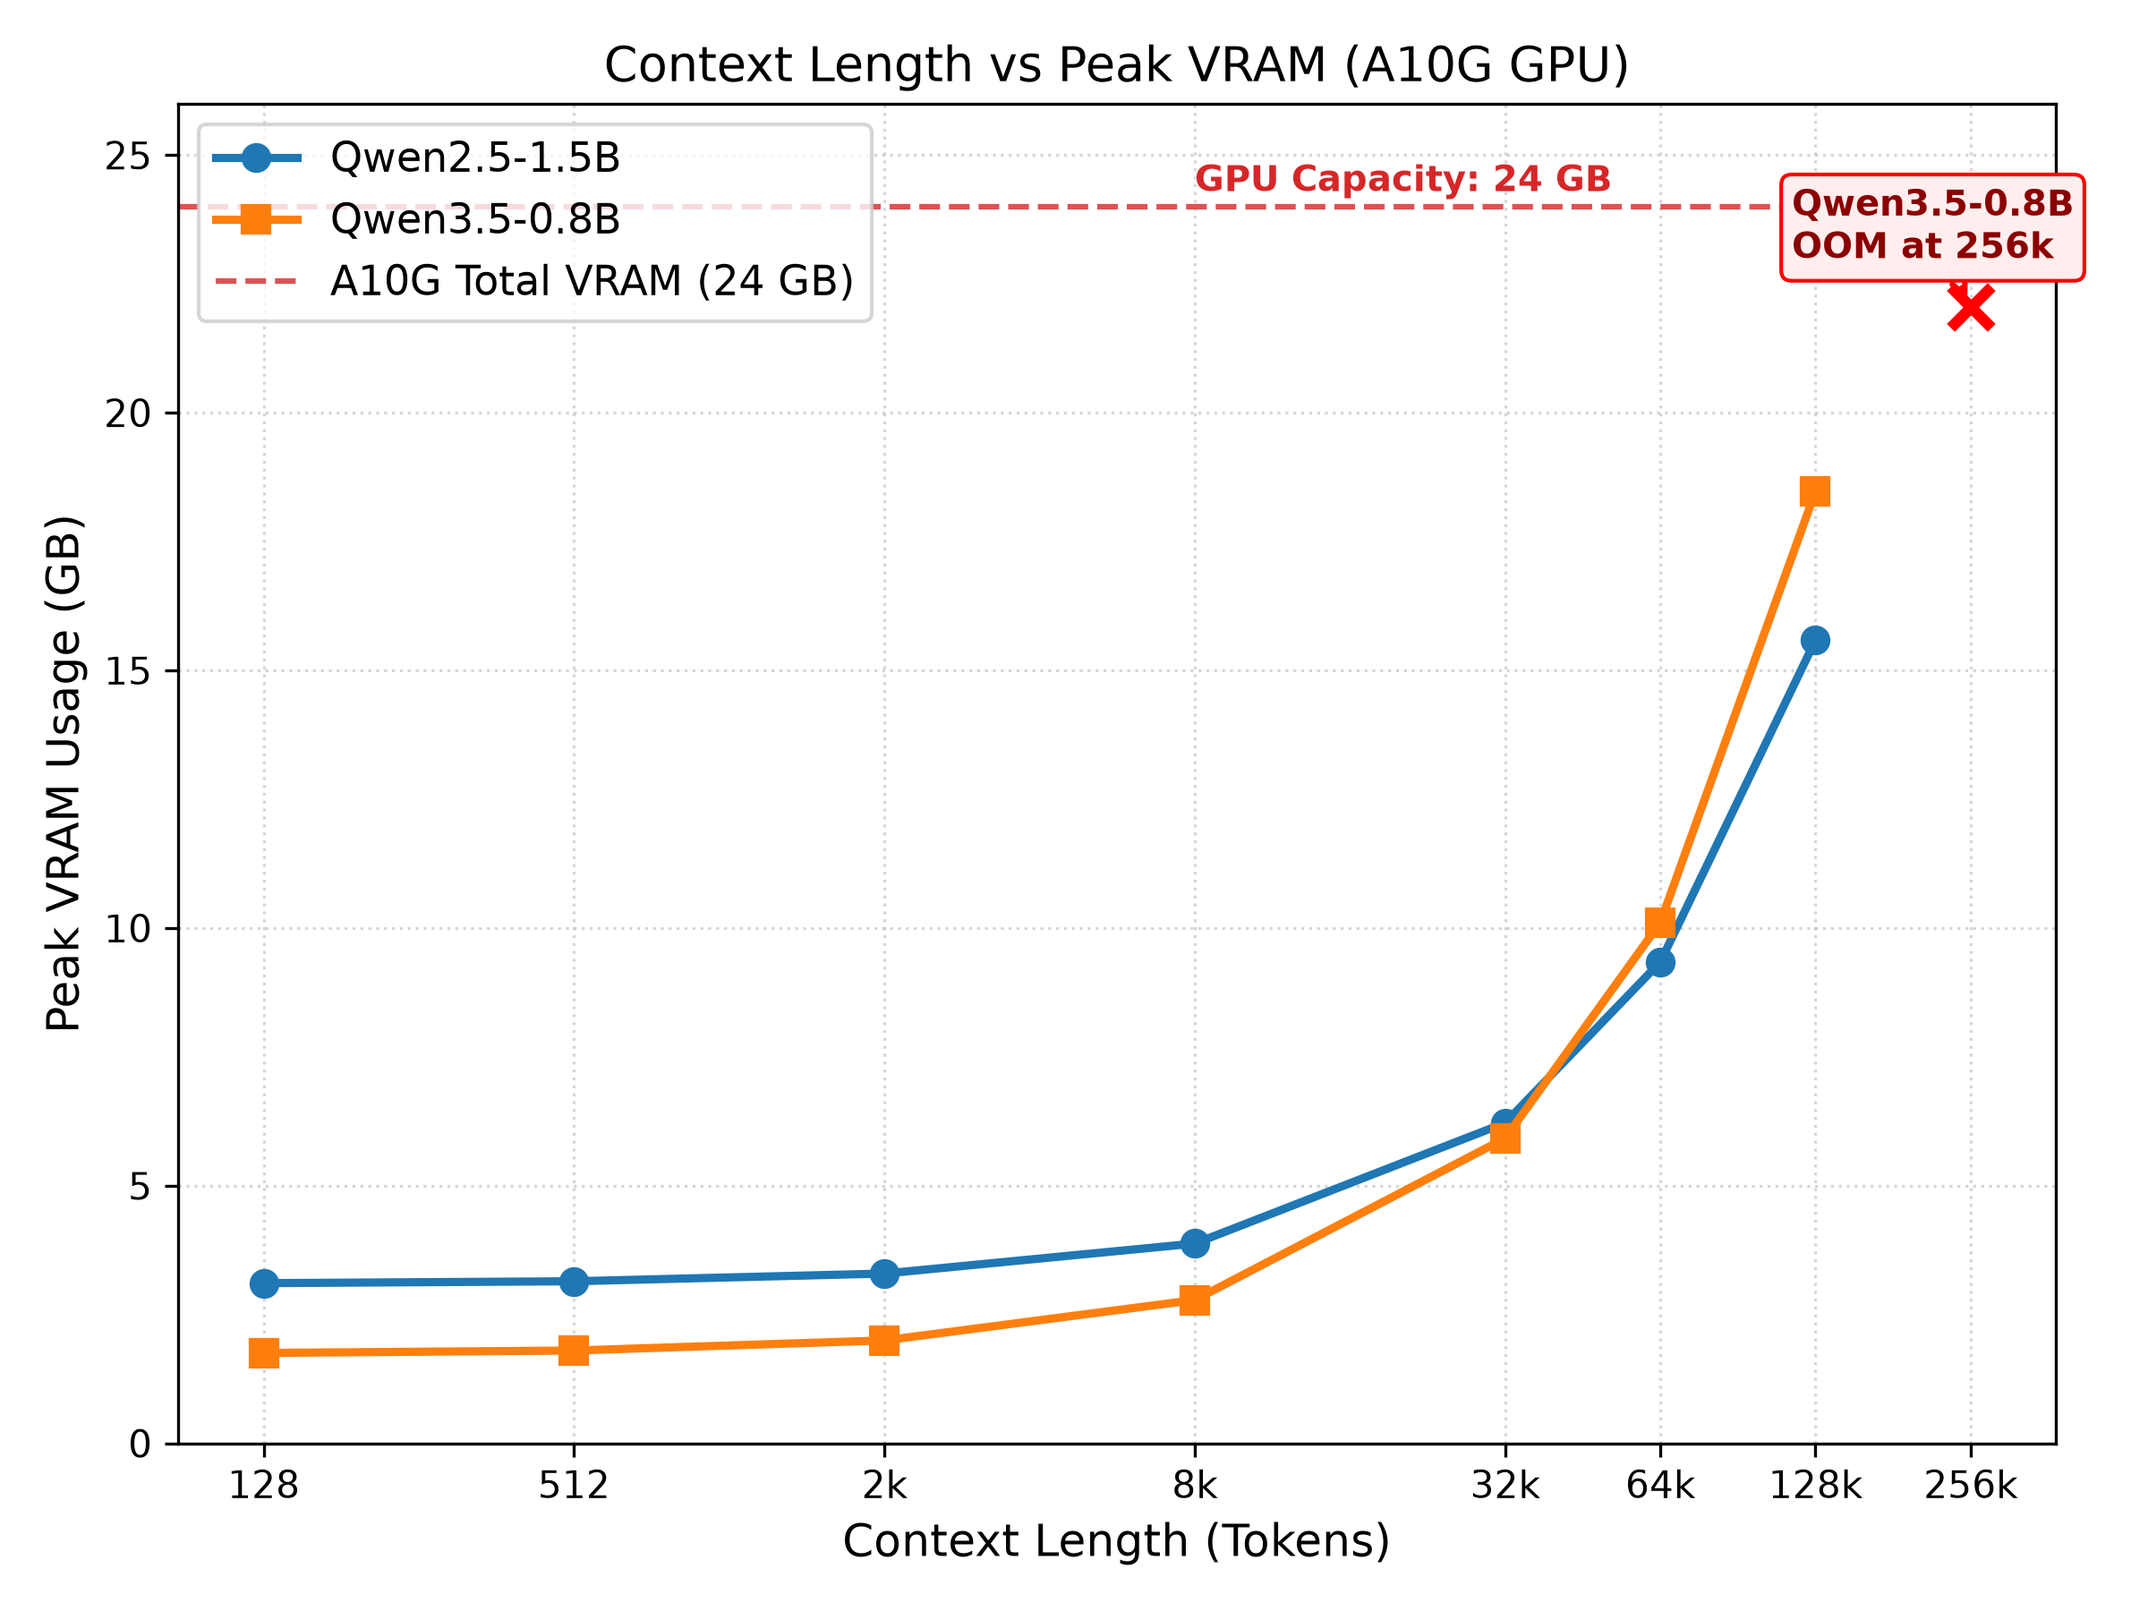
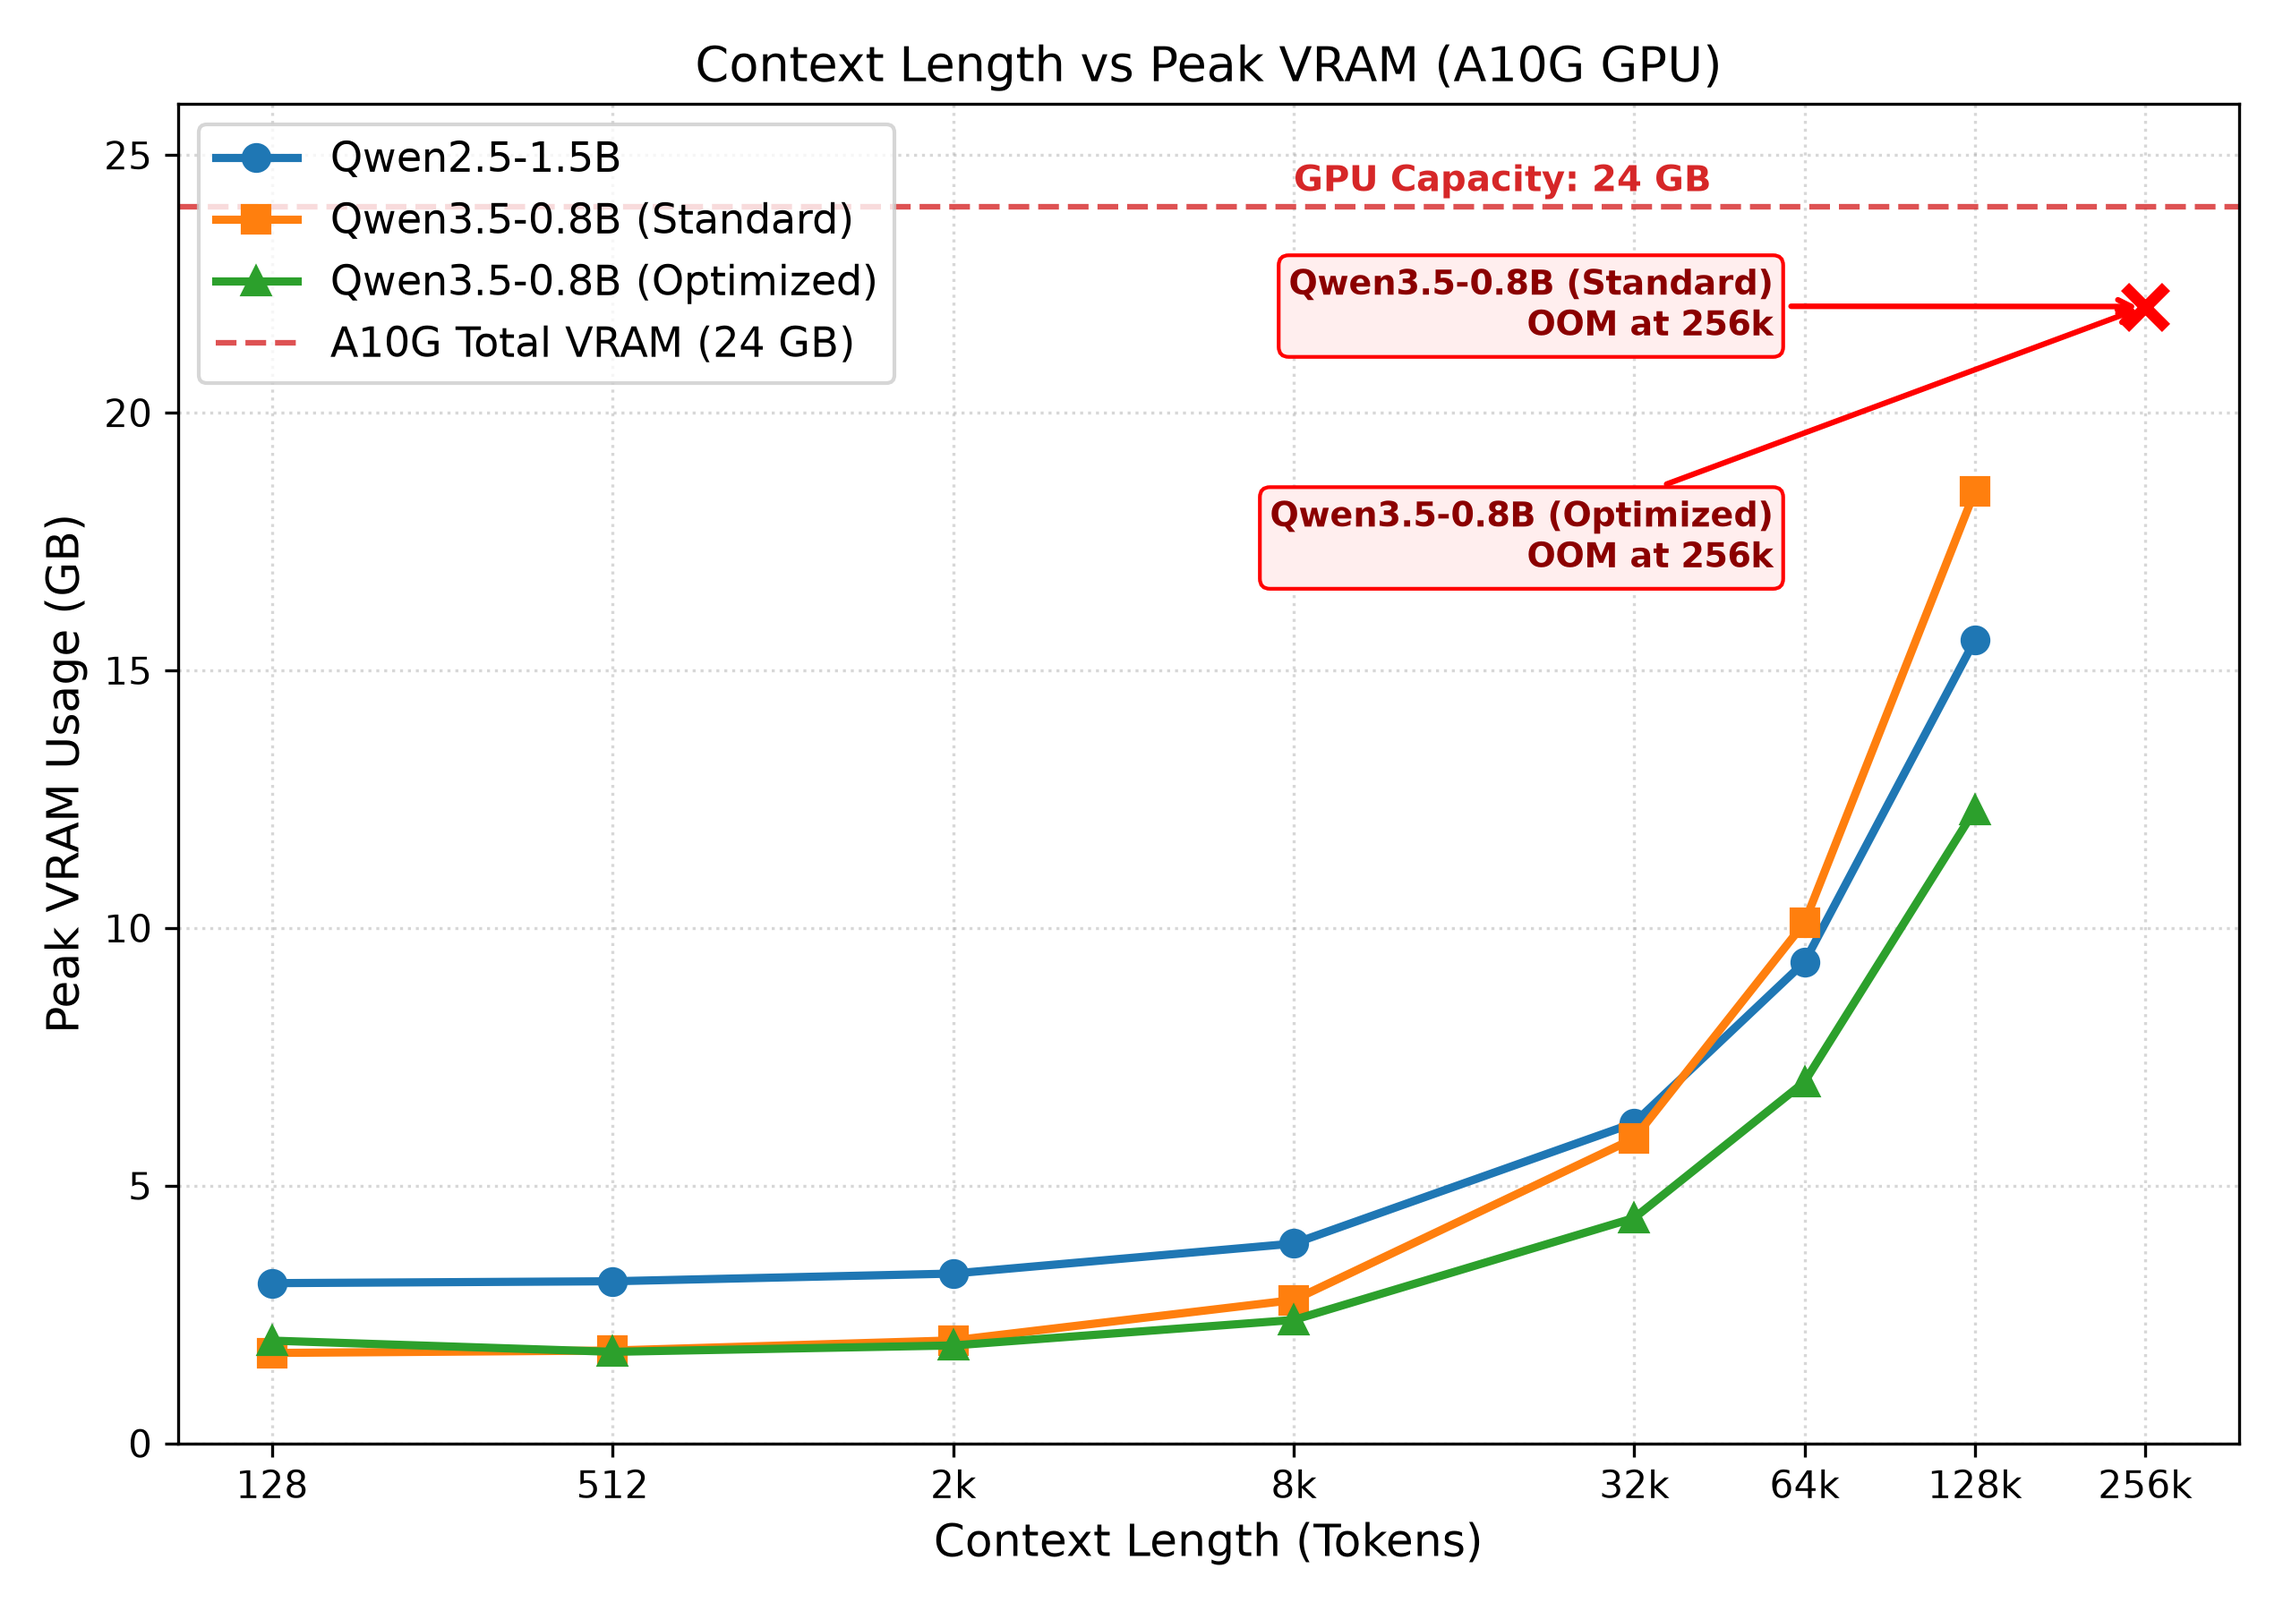
docs(qwen3.5-optimized): Run qwen 3.5 with flash-linear-attention and more

diff --git a/increasing_context/src/increasing_context/compare_optimized.py b/increasing_context/src/increasing_context/compare_optimized.py
@@ -1,0 +1,135 @@
+import modal
+import time
+import json
+
+app = modal.App("kv-cache-optimized-kernels")
+
+image = (
+    modal.Image.from_registry("nvidia/cuda:13.0.0-devel-ubuntu22.04", add_python="3.11")
+    .apt_install("git", "build-essential", "clang-14", "lld")
+    .env({"CC": "clang-14", "CXX": "clang++-14"})
+    .uv_pip_install(
+        "torch",
+        "torchvision",
+        "accelerate",
+        "transformers>=4.57.0",
+        "pillow",
+        "ninja",
+        "packaging",
+    )
+    # Compiled CUDA extensions - now have nvcc available via the devel base image,
+    # unlike debian_slim() which only ships the CUDA runtime, not the compiler toolchain.
+    .run_commands(
+        "pip install causal-conv1d --no-build-isolation",
+    )
+    .run_commands(
+        "pip install flash-linear-attention",
+    )
+)
+
+CONTEXT_LENGTHS_QWEN35 = [128, 512, 2048, 8192, 32768, 65536, 131072, 262144]
+MAX_CTX = max(CONTEXT_LENGTHS_QWEN35)
+
+
+def build_prompt_of_length(processor, target_len):
+    filler = "The quick brown fox jumps over the lazy dog. " * (MAX_CTX // 8 + 1000)
+    ids = processor.tokenizer(filler, return_tensors="pt")["input_ids"][0]
+    if ids.shape[0] < target_len:
+        raise ValueError(
+            f"Filler too short for {target_len} tokens, got {ids.shape[0]}"
+        )
+    ids = ids[:target_len]
+    return ids.unsqueeze(0)
+
+
+@app.function(
+    gpu="A10G",
+    image=image,
+    timeout=3600,
+    secrets=[modal.Secret.from_name("huggingface-secret")],
+)
+def benchmark_qwen35_optimized():
+    import torch
+    from transformers import AutoProcessor, AutoModelForMultimodalLM
+
+    # sanity check: confirm the optimized kernels actually imported successfully
+    try:
+        import causal_conv1d
+
+        causal_conv1d_ok = True
+    except ImportError as e:
+        causal_conv1d_ok = False
+        print(f"causal_conv1d import failed: {e}")
+
+    try:
+        import fla  # flash-linear-attention
+
+        fla_ok = True
+    except ImportError as e:
+        fla_ok = False
+        print(f"flash-linear-attention import failed: {e}")
+
+    print(f"causal_conv1d available: {causal_conv1d_ok}")
+    print(f"flash-linear-attention available: {fla_ok}")
+
+    model_id = "Qwen/Qwen3.5-0.8B"
+    processor = AutoProcessor.from_pretrained(model_id)
+    model = AutoModelForMultimodalLM.from_pretrained(
+        model_id, dtype=torch.float16, device_map="cuda"
+    )
+    model.eval()
+
+    results = []
+    for ctx_len in CONTEXT_LENGTHS_QWEN35:
+        try:
+            input_ids = build_prompt_of_length(processor, ctx_len).to("cuda")
+            attention_mask = torch.ones_like(input_ids)
+
+            torch.cuda.empty_cache()
+            torch.cuda.reset_peak_memory_stats()
+
+            start = time.time()
+            with torch.no_grad():
+                model.generate(
+                    input_ids=input_ids,
+                    attention_mask=attention_mask,
+                    max_new_tokens=20,
+                )
+            torch.cuda.synchronize()
+            latency = time.time() - start
+
+            peak_mem_gb = torch.cuda.max_memory_allocated() / 1e9
+
+            entry = {
+                "model": "Qwen3.5-0.8B-optimized",
+                "context_length": ctx_len,
+                "peak_memory_gb": round(peak_mem_gb, 4),
+                "latency_s": round(latency, 4),
+                "status": "ok",
+                "causal_conv1d_available": causal_conv1d_ok,
+                "flash_linear_attention_available": fla_ok,
+            }
+        except Exception as e:
+            entry = {
+                "model": "Qwen3.5-0.8B-optimized",
+                "context_length": ctx_len,
+                "status": "error",
+                "error": str(e)[:300],
+            }
+        print(entry)
+        results.append(entry)
+
+    return results
+
+
+@app.local_entrypoint()
+def main():
+    print("Benchmarking Qwen3.5-0.8B with optimized kernels...")
+    results = benchmark_qwen35_optimized.remote()
+
+    with open("results_optimized.json", "w") as f:
+        json.dump(results, f, indent=2)
+
+    print("\nAll results:")
+    for r in results:
+        print(r)

diff --git a/increasing_context/src/increasing_context/plot_results.py b/increasing_context/src/increasing_context/plot_results.py
@@ -1,4 +1,5 @@
 import json
+import os
 import matplotlib.pyplot as plt
 import numpy as np
 
@@ -38,19 +39,31 @@ def main():
         "figure.titlesize": 15
     })
 
+    display_names = {
+        "Qwen2.5-1.5B": "Qwen2.5-1.5B",
+        "Qwen3.5-0.8B": "Qwen3.5-0.8B (Standard)",
+        "Qwen3.5-0.8B-optimized": "Qwen3.5-0.8B (Optimized)",
+    }
     colors = {
-        "Qwen2.5-1.5B": "#1f77b4",  # blue
-        "Qwen3.5-0.8B": "#ff7f0e",  # orange
+        "Qwen2.5-1.5B": "#1f77b4",            # blue
+        "Qwen3.5-0.8B": "#ff7f0e",            # orange
+        "Qwen3.5-0.8B-optimized": "#2ca02c",  # green
     }
     markers = {
         "Qwen2.5-1.5B": "o",
         "Qwen3.5-0.8B": "s",
+        "Qwen3.5-0.8B-optimized": "^",
+    }
+    oom_text_offsets = {
+        "Qwen3.5-0.8B": (0.22, 21.5),
+        "Qwen3.5-0.8B-optimized": (0.22, 17.0),
+        "Qwen2.5-1.5B": (0.22, 23.0),
     }
 
     # ==========================================
     # Plot 1: Context Length vs Peak VRAM (Single)
     # ==========================================
-    fig, ax = plt.subplots(figsize=(8, 6), dpi=300)
+    fig, ax = plt.subplots(figsize=(8.5, 6), dpi=300)
 
     for m_name, runs in models.items():
         ok_runs = sorted(runs["ok"], key=lambda x: x["context_length"])
@@ -59,19 +72,22 @@ def main():
 
         color = colors.get(m_name, "#333333")
         marker = markers.get(m_name, "o")
+        label = display_names.get(m_name, m_name)
 
-        ax.plot(ctx, vram, marker=marker, linewidth=2.2, markersize=7, label=m_name, color=color)
+        ax.plot(ctx, vram, marker=marker, linewidth=2.2, markersize=7, label=label, color=color)
 
         # Plot OOM markers if any
         for oom in runs["oom"]:
             oom_ctx = oom["context_length"]
             ax.scatter(oom_ctx, 22.06, color="red", marker="x", s=120, linewidth=3, zorder=5)
+            x_factor, y_pos = oom_text_offsets.get(m_name, (0.22, 23.0))
             ax.annotate(
-                f"{m_name}\nOOM at {format_tokens(oom_ctx)}",
+                f"{label}\nOOM at {format_tokens(oom_ctx)}",
                 xy=(oom_ctx, 22.06),
-                xytext=(oom_ctx * 0.45, 23.0),
+                xytext=(oom_ctx * x_factor, y_pos),
+                ha="right",
                 arrowprops=dict(arrowstyle="->", color="red", lw=1.5),
-                fontsize=9.5,
+                fontsize=9.0,
                 color="darkred",
                 fontweight="bold",
                 bbox=dict(boxstyle="round,pad=0.3", fc="#ffeeee", ec="red", lw=1)
@@ -95,6 +111,9 @@ def main():
 
     plt.tight_layout()
     plt.savefig("ctx_vs_vram.png", dpi=300)
+    if os.path.isdir("plots"):
+        plt.savefig(os.path.join("plots", "ctx_vs_vram.png"), dpi=300)
+        print("Saved plots/ctx_vs_vram.png")
     plt.close()
     print("Saved ctx_vs_vram.png")
 

diff --git a/increasing_context/src/increasing_context/model.md b/increasing_context/src/increasing_context/model.md
@@ -259,3 +259,33 @@ $$
 [transformers] `causal_conv1d_update` is falling back to its reference PyTorch implementation because `causal_conv1d` is not installed. This is correct but much slower; install `causal_conv1d` for the optimized kernel.
 [transformers] `fused_recurrent_gated_delta_rule` is falling back to its reference PyTorch implementation because `flash-linear-attention` is not installed. This is correct but much slower; install `flash-linear-attention` for the optimized kernel.
 ```
+
+## 3. Fixing the above import issues - Qwen3.5-optimized
+To install the packages mentioned above. I had to change the model image to a CUDA image, which had NVCC. This was required to compile causal conv1, which took a lot of time. I don't know how much improvement it provides to our model but still it has been compiled and used. 
+
+```python
+image = (
+    modal.Image.from_registry("nvidia/cuda:13.0.0-devel-ubuntu22.04", add_python="3.11")
+    .apt_install("git", "build-essential", "clang-14", "lld")
+    .env({"CC": "clang-14", "CXX": "clang++-14"})
+    .uv_pip_install(
+        "torch",
+        "torchvision",
+        "accelerate",
+        "transformers>=4.57.0",
+        "pillow",
+        "ninja",
+        "packaging",
+    )
+    # Compiled CUDA extensions - now have nvcc available via the devel base image,
+    # unlike debian_slim() which only ships the CUDA runtime, not the compiler toolchain.
+    .run_commands(
+        "pip install causal-conv1d --no-build-isolation",
+    )
+    .run_commands(
+        "pip install flash-linear-attention",
+    )
+)
+```
+The reduction in VRAM usage can be seen in [README](../../README.md)
+<!-- TODO: Check how much improvement does each of this optimisation bring in and learn about it -->

diff --git a/increasing_context/README.md b/increasing_context/README.md
@@ -5,7 +5,8 @@ Benchmarking KV cache memory scaling with context length and KV quantization imp
 ## Theoretical KV Cache per Token (BF16)
 - **Qwen 2.5-1.5B** (Dense GQA, 28 attn layers, 2 KV heads, $d=128$): **28 KB / token**
 - **Qwen 3.5-0.8B** (Hybrid, 6 attn layers, 2 KV heads, $d=256$): **12 KB / token**
-> Calculations in [model.md](./src/increasing_context/model.md)
+- **Qwen 3.5-0.8B (optimized)** Model with access to kernels like flash_linear_attention etc.  
+> Calculations and more about optimised version in [model.md](./src/increasing_context/model.md)
 ## Analysis
 ![Ctx Len vs VRAM](./src/increasing_context/plots/ctx_vs_vram.png)
 
